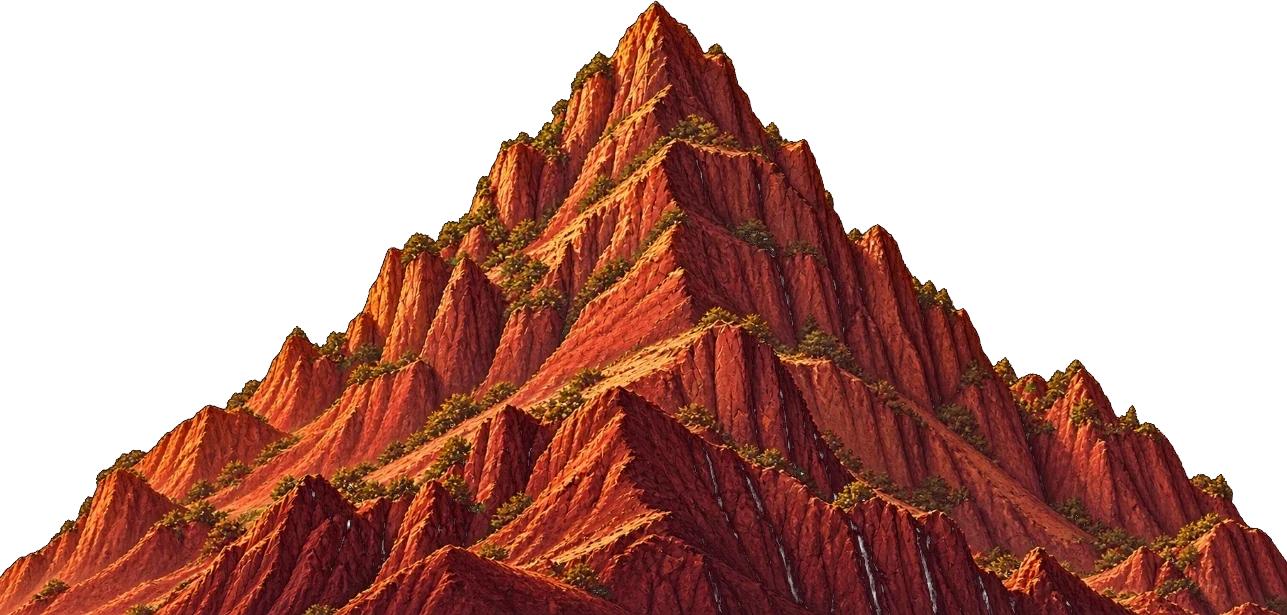
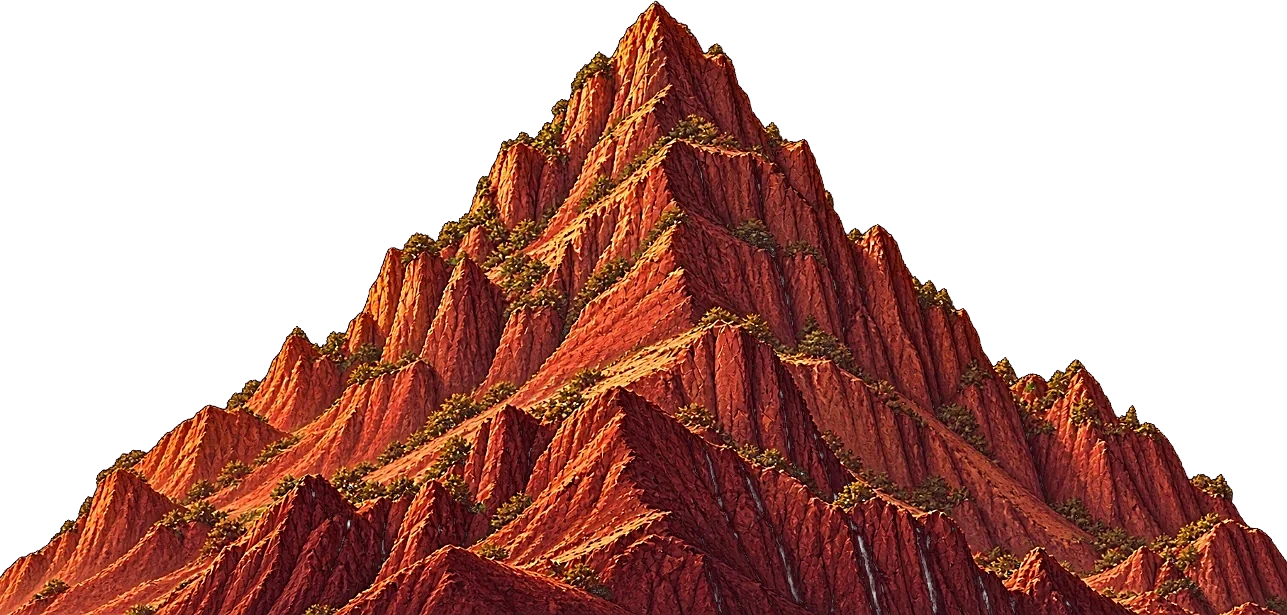
Mountain page: peaks aligned per side, mountains fill the page up to the tree design, sharper
- The last page is now exactly the mountains' height, so the gold peaks touch the tree page
- On each side the red and green peaks stand right under the gold peak (one vertical line);
  the left red mountain is shifted left and cut off at the screen edge, each nearer layer shorter
- The cut side of the right red mountain (and the small cut sides of the front ones) fade
  out instead of showing a straight edge; every layer reaches below the page so parallax
  never opens a gap
- Mountain pictures sharpened (the gold range also enlarged, as it was being stretched)

diff --git a/css/garden.css b/css/garden.css
@@ -6,15 +6,20 @@
 .p8-col img{display:block;width:100%;height:auto}
 .p8-col.r{transform:scaleX(-1)}
 @media (max-width:600px){.p8-col{width:47%}}
-.pg9{position:relative;z-index:3;min-height:100vh;min-height:100svh;background:#eadaaf}
+.pg9{position:relative;z-index:3;background:#eadaaf}
 /* divider between the Wishing Wall and this page (the same gold rod as above the Wishing Wall) */
 .p8-rod{position:absolute;z-index:2;left:0;right:0;top:0;height:var(--rodh);background:url(../assets/img/rsvp-rod.webp) center/100% 100% no-repeat;filter:drop-shadow(0 6px 8px rgba(60,30,0,.4))}
 .pg9{overflow:hidden}
-/* mountain footer: the gold range sets the size; each nearer layer is shorter so the ones behind still show */
-.p9-mtn{position:absolute;left:0;right:0;bottom:0;aspect-ratio:1230/523}
+/* mountain page: the gold range sets the size and its peaks touch the tree page above. On each side the red and green
+   peaks sit right under the gold peak (left peak at 12.6% of the width, right at 85.9%); every picture reaches a little
+   below the page so the parallax never opens a gap, and the cut sides of the red / green pictures fade out */
+.p9-mtn{position:relative;width:100%;aspect-ratio:1230/492}
 .p9-mtn img{position:absolute;display:block;height:auto;pointer-events:none}
-.m-gold{left:0;width:100%;bottom:-2%}
-.m-r1{left:-5%;width:50%;bottom:-4%;filter:drop-shadow(0 -4px 10px rgba(90,40,10,.18))}
-.m-r2{right:-4%;width:40%;bottom:-4%;filter:drop-shadow(0 -4px 10px rgba(90,40,10,.18))}
-.m-g1{left:-8%;width:36%;bottom:-5%;filter:drop-shadow(0 -6px 12px rgba(60,20,0,.25))}
-.m-g2{right:-6%;width:30%;bottom:-5%;filter:drop-shadow(0 -6px 12px rgba(60,20,0,.25))}
+.m-gold{left:0;width:100%;bottom:-6.3%}
+.m-r1{left:-15.96%;width:56%;bottom:-8%;filter:drop-shadow(0 -4px 12px rgba(90,40,10,.2))}
+.m-g1{left:-4.71%;width:34%;bottom:-8%;filter:drop-shadow(0 -6px 14px rgba(60,20,0,.28));
+ -webkit-mask-image:linear-gradient(90deg,#000 88%,transparent);mask-image:linear-gradient(90deg,#000 88%,transparent)}
+.m-r2{left:56.75%;width:50%;bottom:-8%;filter:drop-shadow(0 -4px 12px rgba(90,40,10,.2));
+ -webkit-mask-image:linear-gradient(90deg,transparent,#000 16%);mask-image:linear-gradient(90deg,transparent,#000 16%)}
+.m-g2{left:64.2%;width:38%;bottom:-8%;filter:drop-shadow(0 -6px 14px rgba(60,20,0,.28));
+ -webkit-mask-image:linear-gradient(90deg,transparent,#000 9%);mask-image:linear-gradient(90deg,transparent,#000 9%)}

diff --git a/index.html b/index.html
@@ -23,7 +23,7 @@
   <link rel="stylesheet" href="css/family.css?v=4e893e42">
   <link rel="stylesheet" href="css/rsvp.css?v=b5d4e967">
   <link rel="stylesheet" href="css/end.css?v=93dfe684">
-  <link rel="stylesheet" href="css/garden.css?v=c157e8c4">
+  <link rel="stylesheet" href="css/garden.css?v=ee3c6fca">
   <link rel="stylesheet" href="css/opening.css?v=19c59807">
   <script src="js/config.js?v=d2f5944c"></script>
 </head>
@@ -298,13 +298,14 @@
   <div class="p8-col r" data-par="-0.07"><img src="assets/img/tree-panel.webp" alt="" width="775" height="1356" loading="lazy" decoding="async"><img src="assets/img/tree-panel-2.webp" alt="" width="775" height="794" loading="lazy" decoding="async"></div>
 </section>
 <section class="pg9" id="pg9" aria-hidden="true">
-  <!-- mountains at the foot: the gold range at the back, then a red mountain on each side, then the greener ones in front -->
+  <!-- mountains filling the page up to the tree design: the gold range at the back, a red mountain on each side, the greener ones
+       in front; on each side the three peaks stand on one vertical line, each nearer mountain shorter -->
   <div class="p9-mtn">
-    <img class="m-gold" src="assets/img/mtn-gold.webp" alt="" width="1230" height="523" loading="lazy" decoding="async" data-par="-0.06">
+    <img class="m-gold" src="assets/img/mtn-gold.webp" alt="" width="1845" height="784" loading="lazy" decoding="async" data-par="-0.06">
     <img class="m-r1" src="assets/img/mtn-red-1.webp" alt="" width="1575" height="620" loading="lazy" decoding="async" data-par="-0.03">
-    <img class="m-r2" src="assets/img/mtn-red-2.webp" alt="" width="1119" height="612" loading="lazy" decoding="async" data-par="-0.03">
+    <img class="m-r2" src="assets/img/mtn-red-2.webp" alt="" width="1399" height="765" loading="lazy" decoding="async" data-par="-0.03">
     <img class="m-g1" src="assets/img/mtn-green-1.webp" alt="" width="1287" height="615" loading="lazy" decoding="async" data-par="0">
-    <img class="m-g2" src="assets/img/mtn-green-2.webp" alt="" width="1033" height="582" loading="lazy" decoding="async" data-par="0">
+    <img class="m-g2" src="assets/img/mtn-green-2.webp" alt="" width="1240" height="698" loading="lazy" decoding="async" data-par="0">
   </div>
 </section>
 

diff --git a/src/sections/08-garden.html b/src/sections/08-garden.html
@@ -4,12 +4,13 @@
   <div class="p8-col r" data-par="-0.07"><img src="assets/img/tree-panel.webp" alt="" width="775" height="1356" loading="lazy" decoding="async"><img src="assets/img/tree-panel-2.webp" alt="" width="775" height="794" loading="lazy" decoding="async"></div>
 </section>
 <section class="pg9" id="pg9" aria-hidden="true">
-  <!-- mountains at the foot: the gold range at the back, then a red mountain on each side, then the greener ones in front -->
+  <!-- mountains filling the page up to the tree design: the gold range at the back, a red mountain on each side, the greener ones
+       in front; on each side the three peaks stand on one vertical line, each nearer mountain shorter -->
   <div class="p9-mtn">
-    <img class="m-gold" src="assets/img/mtn-gold.webp" alt="" width="1230" height="523" loading="lazy" decoding="async" data-par="-0.06">
+    <img class="m-gold" src="assets/img/mtn-gold.webp" alt="" width="1845" height="784" loading="lazy" decoding="async" data-par="-0.06">
     <img class="m-r1" src="assets/img/mtn-red-1.webp" alt="" width="1575" height="620" loading="lazy" decoding="async" data-par="-0.03">
-    <img class="m-r2" src="assets/img/mtn-red-2.webp" alt="" width="1119" height="612" loading="lazy" decoding="async" data-par="-0.03">
+    <img class="m-r2" src="assets/img/mtn-red-2.webp" alt="" width="1399" height="765" loading="lazy" decoding="async" data-par="-0.03">
     <img class="m-g1" src="assets/img/mtn-green-1.webp" alt="" width="1287" height="615" loading="lazy" decoding="async" data-par="0">
-    <img class="m-g2" src="assets/img/mtn-green-2.webp" alt="" width="1033" height="582" loading="lazy" decoding="async" data-par="0">
+    <img class="m-g2" src="assets/img/mtn-green-2.webp" alt="" width="1240" height="698" loading="lazy" decoding="async" data-par="0">
   </div>
 </section>
